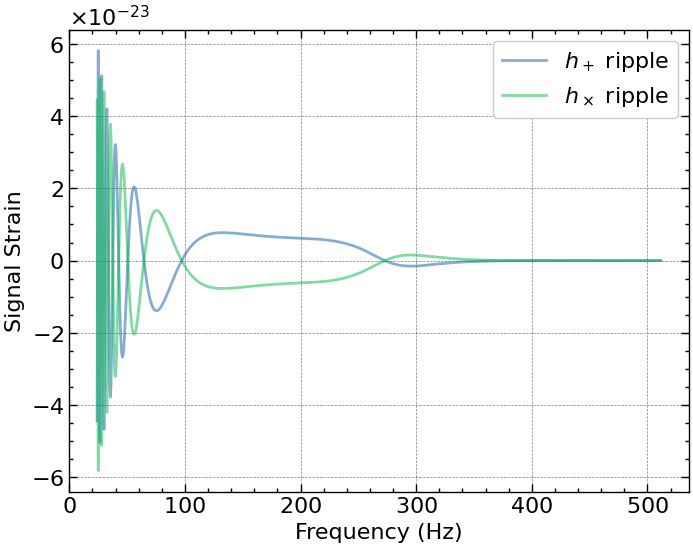
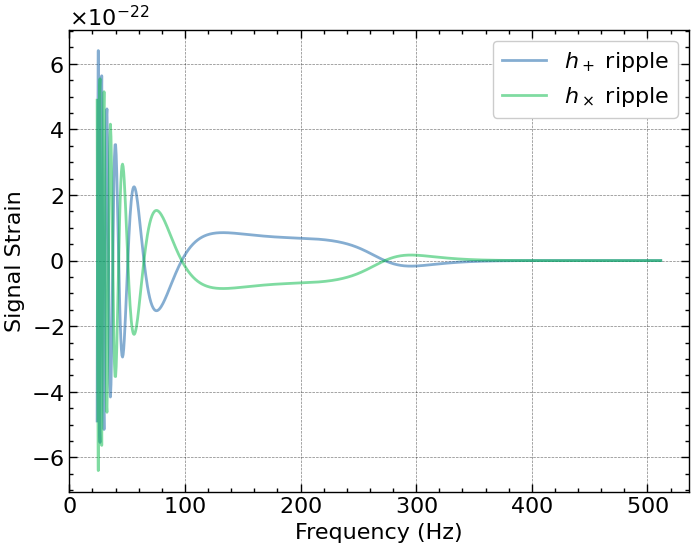
Code refactor

diff --git a/main.py b/main.py
@@ -7,7 +7,10 @@ Created on Thu Jun 14 2023
 """
 
 # %%
-# Section 0.a - Library import
+# Section 0 - Library import
+# XLA GPU resource setup
+import os
+os.environ['XLA_PYTHON_CLIENT_PREALLOCATE']='false'
 # Jax related
 import jax
 import jax.numpy as jnp
@@ -17,51 +20,58 @@ from ripple.waveforms import IMRPhenomXAS
 # Plotter related
 import matplotlib.pyplot as plt
 import scienceplots
+# Plotter style customization
 plt.style.use(['science', 'notebook', 'grid'])
 
 # %%
-# Section 0.b - Jax GPU enable
-
-# %%
 # Section 1.a - Global varibles repo
-# Variables - Primary
-m1, m2 = 36.0, 29.0                                 # Mass - solar mass
-f_min, f_max, f_del = 24.0, 512.0, 0.5              # GW waveform freq domain
-# Variables - Primary calculated
-mc, mr = ms_to_Mc_eta(jnp.array([m1, m2]))          # Mass - chirp, ratio
+# Mass - solar mass - GW170817
+m1, m2 = 36.0, 29.0
+# GW waveform freq domain
+f_min, f_max, f_del = 24.0, 512.0, 0.5      
+# Mass - chirp, ratio
+mc, mr = ms_to_Mc_eta(jnp.array([m1, m2]))          
 # Freq - signal, reference
 f_sig, f_ref = jnp.arange(f_min, f_max, f_del), f_min
-# Variables - Secondary
-s1, s2 = 0.0, 0.0                                   # Spin
+# Spin
+s1, s2 = 0.0, 0.0                                   
 # Coalescence - time, phase
 c_time, c_phas = 0.0, 0.0
 # Angle - incline, polar
 ang_inc, ang_pol = 0.0, 0.0
-dist_mpc = 440.0                                    # Distance - Mpc
+# Distance - Mpc - GW170817
+dist_mpc = 40.0
 # Arguments - Built
 arg_ripple = jnp.array(
     [mc, mr, s1, s2, dist_mpc, c_time, c_phas, ang_inc, ang_pol]
 )
 
 # %%
-# Section 2.a - Ripple waveform generator
-h_plus, h_cros = IMRPhenomXAS.gen_IMRPhenomXAS_polar(f_sig, arg_ripple, f_ref)
+# Section 2.a - Ripple waveform func jit
+@jax.jit
+def waveform(arg):
+    return IMRPhenomXAS.gen_IMRPhenomXAS_polar(f_sig, arg, f_ref)
 
-
-def h_real(theta, freq):
+# %%
+# Section 2.b - Ripple waveform func for real and imag
+def hp_real(theta, freq):
     return IMRPhenomXAS.gen_IMRPhenomXAS_polar(
         jnp.array([freq]), theta, f_ref,
     )[0].real[0]
 
 
-def h_imag(theta, freq):
+def hp_imag(theta, freq):
     return IMRPhenomXAS.gen_IMRPhenomXAS_polar(
         jnp.array([freq]), theta, f_ref,
     )[0].imag[0]
 
 
 # %%
-# Section 2.b - Ripple waveform plotter
+# Section 2.c - Ripple waveform generator call
+h_plus, h_cros = waveform(arg_ripple)
+
+# %%
+# Section 2.d - Ripple waveform plotter
 # Plot init
 fig, ax = plt.subplots()
 # Plotter
@@ -74,9 +84,9 @@ fig.savefig("./media/fig_01_ripple_waveform.png")
 
 # %%
 # Section 3.a - Derivatives calculator
-# Get real and imag grad func
-grad_real = jax.jit(jax.vmap(jax.grad(h_real), in_axes=(None, 0)))(arg_ripple, f_sig)
-grad_imag = jax.jit(jax.vmap(jax.grad(h_imag), in_axes=(None, 0)))(arg_ripple, f_sig)
+# Get real and imag grad func for h_plus
+grad_real = jax.jit(jax.vmap(jax.grad(hp_real), in_axes=(None, 0)))(arg_ripple, f_sig)
+grad_imag = jax.jit(jax.vmap(jax.grad(hp_imag), in_axes=(None, 0)))(arg_ripple, f_sig)
 # Result recombine
 grad_wave = grad_real + grad_imag * 1j
 
@@ -103,16 +113,24 @@ fig.savefig("./media/fig_02_ripple_waveform_grad.png")
 # Plot init
 fig, (ax1, ax2) = plt.subplots(2, 1)
 # Plotter
-ax1.plot(f_sig, h_plus.real, alpha=0.5, label="Strain - real", color="r")
-ax1.plot(f_sig, h_cros.imag, alpha=0.5, label="Strain - imag", color="b")
-ax2.plot(f_sig, grad_wave.real[:, 4], alpha=0.5, label="Grad dist - real", color="y")
-ax2.plot(f_sig, grad_wave.imag[:, 4], alpha=0.5, label="Grad dist - imag", color="g")
+ax1.plot(f_sig, h_plus.real, alpha=0.5, label="Strain - real")
+ax1.plot(f_sig, h_cros.imag, alpha=0.5, label="Strain - imag")
+ax2.plot(f_sig, grad_wave.real[:, 4], alpha=0.5, label="Grad dist - real")
+ax2.plot(f_sig, grad_wave.imag[:, 4], alpha=0.5, label="Grad dist - imag")
 # Plot customization
 ax1.set(xlabel="Frequency (Hz)", ylabel="GW Strain")
 ax2.set(xlabel="Frequency (Hz)", ylabel="GW Grad - dist")
 # Plot admin
+ax1.legend(); ax2.legend()
 fig.tight_layout()
 fig.savefig("./media/fig_03_ripple_waveform_grad_dist.png")
 
 # %%
-# Section 4.a - Inner product with Power Spectral Density
+# Section 4.a - Fisher information matrix
+# Stellar mass definer - min, max, step 
+m_arg = (1.0, 100.0, 1.0)
+m_array = jnp.arange(*m_arg)
+# Assign m1, m2 param guess arrays
+m1_array, m2_array = m_array, m_array
+
+# %%
